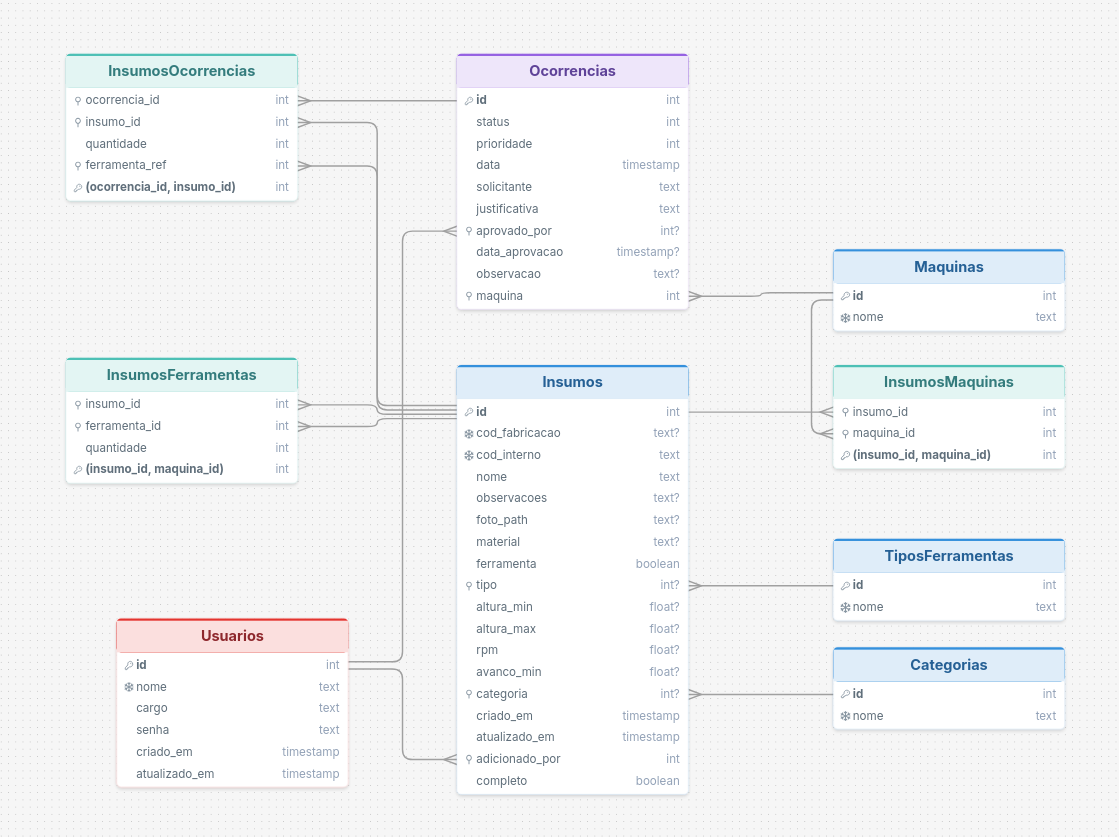
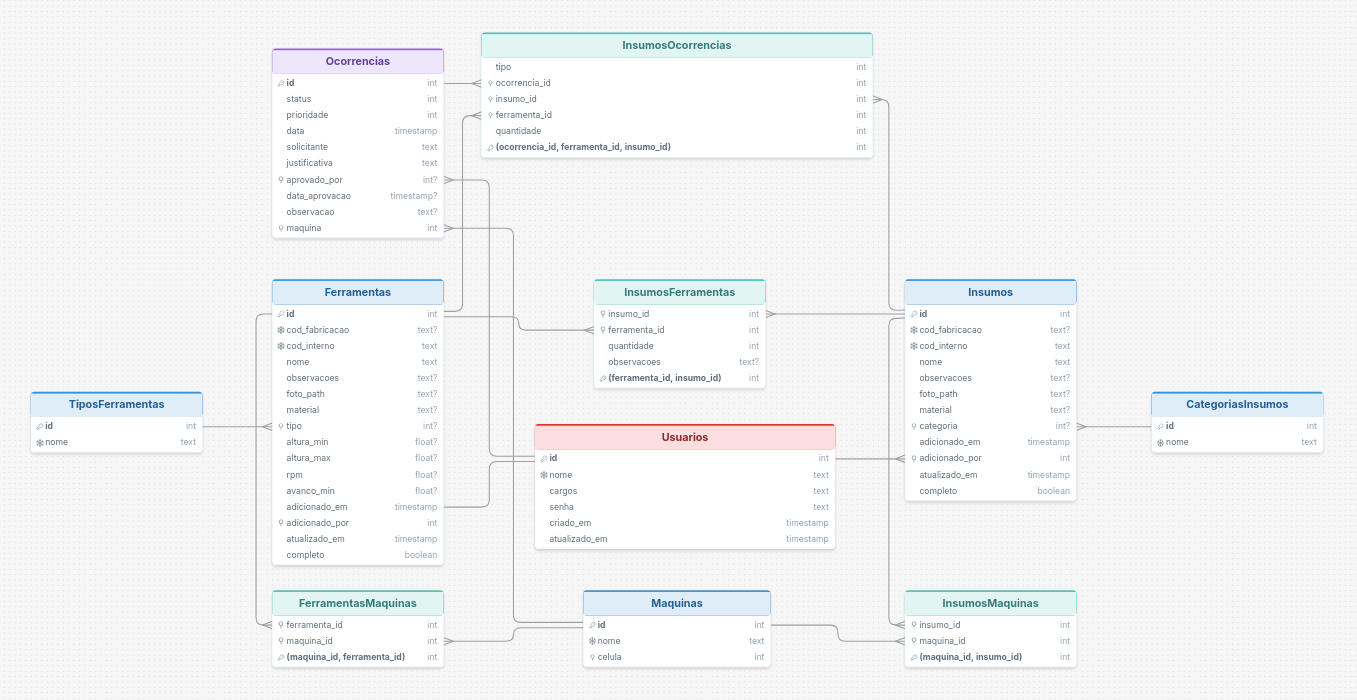
DB backup

diff --git a/src/routes/scan/+page.svelte b/src/routes/scan/+page.svelte
@@ -2,6 +2,7 @@
     import { onMount, onDestroy } from "svelte";
     import QrScanner from "qr-scanner";
     import InsumoCard from "$lib/components/insumo_card.svelte";
+    import Close from "~icons/fluent/add-24-regular";
 
     let qr_scanner: QrScanner;
     // @ts-ignore
@@ -34,13 +35,14 @@
     }
 
     let insumo: Insumo | undefined = $state();
+    let should_scan = $state(true);
 
     onMount(async () => {
         if (await QrScanner.hasCamera()) {
             has_camera = true;
             qr_scanner = new QrScanner(video_el, check_result, {
-                highlightScanRegion: true,
-                highlightCodeOutline: true,
+                highlightScanRegion: false,
+                highlightCodeOutline: false,
                 returnDetailedScanResult: true,
                 maxScansPerSecond: 5,
                 preferredCamera: "environment",
@@ -53,7 +55,7 @@
                 if (err instanceof Error) error = err.message;
             }
         } else {
-            error = `No camera detect!`;
+            error = `Nenhuma câmera disponível`;
         }
     });
 
@@ -65,7 +67,7 @@
     });
 
     const check_result = async (result: QrScanner.ScanResult) => {
-        if (insumo) return;
+        if (insumo || !should_scan) return;
 
         if (/^[A-Z]-[0-9]{3}$/.test(result.data.trim())) {
             const response = await fetch(`/api/insumo/${result.data.trim()}`);
@@ -80,34 +82,54 @@
             error = `Código inválido`;
         }
     };
+
+    function close_card() {
+        should_scan = false;
+        insumo = undefined;
+        setTimeout(() => {
+            should_scan = true;
+        }, 2000);
+    }
 </script>
 
 {#if !started && has_camera}
     <h1>Carregando...</h1>
 {/if}
 
-<video
-    bind:this={video_el}
-    class:hidden={!started}
-    autoplay
-    muted
-    playsinline
-    id="scanner-feed"
-    class="w-screen h-screen"
-></video>
-
-<canvas bind:this={prev_canvas} class="hidden w-screen h-screen"></canvas>
+<div class="">
+    <video
+        bind:this={video_el}
+        class:hidden={!started}
+        autoplay
+        muted
+        playsinline
+        id="scanner-feed"
+        onclick={() => (insumo ? close_card() : (should_scan = true))}
+        class="min-w-screen min-h-screen fixed bottom-0 right-0 top-0 left-0 object-cover"
+    ></video>
+</div>
 
 <p>{error}</p>
 
 {#if insumo}
-    <div class="absolute bottom-0 slide-up m-2">
+    <div class="absolute bottom-0 slide-up m-2 overflow-visible">
+        <div class="flex justify-center mb-5">
+            <button
+                type="button"
+                onclick={close_card}
+                class="p-2 rounded-full bg-neutral-primary-soft text-heading
+                border border-heading"
+            >
+                <Close class="rotate-45 w-10 h-10" />
+            </button>
+        </div>
         <InsumoCard
             ferramenta={insumo.ferramenta}
             foto={insumo.foto}
             cod={insumo.cod_interno}
             nome={insumo.nome}
             obs={insumo.observacoes}
+            class="shadow-xl shadow-heading/50"
         />
     </div>
 {/if}
@@ -116,6 +138,7 @@
     :global(body) {
         width: 100vw;
         height: 100vh;
+        overflow: hidden;
     }
 
     #scanner-feed {

diff --git a/src/lib/server/db/client.ts b/src/lib/server/db/client.ts
@@ -3,6 +3,8 @@ import { drizzle } from "drizzle-orm/better-sqlite3";
 import { DB_PATH } from "$env/static/private";
 import { building } from "$app/environment";
 import { dev } from "$app/environment";
+import path from "path";
+import fs from "fs/promises";
 
 let db: ReturnType<typeof drizzle>;
 
@@ -11,4 +13,47 @@ if (!building) {
   db = drizzle(sqlite);
 }
 
-export { db };
+const backup_database = async () => {
+  const date_str = new Date().toISOString().split("T")[0];
+  const backup_dir = `${path.dirname(DB_PATH)}/backups`;
+  const backup_path = `${backup_dir}/database-${date_str}.sqlite`;
+
+  try {
+    // Criar diretório se não existir.
+    await fs.mkdir(backup_dir, { recursive: true });
+    await db.$client.backup(backup_path);
+    console.log("DB Backup: Backup do banco salvo!");
+  } catch (err) {
+    console.error(
+      "DB Backup: Não foi possível realizar o backup do banco: ",
+      err,
+    );
+    return;
+  }
+
+  // Número de backups mantidos:
+  // Quando um novo backup é salvo, o mais antigo é deletado.
+  const n_backups = 5;
+
+  try {
+    const backup_files = await fs.readdir(backup_dir);
+
+    if (backup_files.length > n_backups) {
+      const backups_by_date = backup_files.sort((a, b) => a.localeCompare(b));
+      const n_extra_backups = backups_by_date.length - n_backups;
+
+      for (let i = 0; i < n_extra_backups; i++) {
+        await fs.unlink(`${backup_dir}/${backups_by_date[i]}`);
+        console.log(`DB Backup: backup antigo deletado: ${backups_by_date[i]}`);
+      }
+    }
+  } catch (err) {
+    console.error(
+      "DB Backup: Não foi possível deletar os backups antigos: ",
+      err,
+    );
+  }
+};
+
+// TODO: export singleton
+export { db, backup_database };

diff --git a/src/lib/components/insumo_card.svelte b/src/lib/components/insumo_card.svelte
@@ -1,18 +1,28 @@
 <script lang="ts">
+    import type { ClassValue } from "svelte/elements";
+
     interface Props {
         foto: string | null;
         nome: string;
         cod: string;
         ferramenta: boolean;
         obs: string | null;
+        class?: ClassValue;
     }
 
-    let { foto, nome, cod, ferramenta, obs }: Props = $props();
+    let {
+        foto,
+        nome,
+        cod,
+        ferramenta,
+        obs,
+        class: className = "",
+    }: Props = $props();
 </script>
 
 <a
     href={`insumos/${cod}`}
-    class="flex w-full items-start gap-3 bg-neutral-primary-soft p-6 border border-default rounded-base shadow-xs flex-row max-w-xl"
+    class={`flex w-full items-start gap-3 bg-neutral-primary-soft p-6 border border-default rounded-base shadow-xs flex-row max-w-xl ${className}`}
 >
     <img
         class="object-cover rounded-base h-auto w-28 md:w-48"

diff --git a/src/hooks.server.ts b/src/hooks.server.ts
@@ -1,0 +1,12 @@
+import cron from "node-cron";
+import { backup_database } from "$lib/server/db/client";
+
+// Backup automático do banco de dados:
+// Executa diariamente, à meia-noite.
+cron.schedule("0 0 * * *", async () => {
+  await backup_database();
+});
+
+// TODO: Add PM2.
+// TODO: Add Winston and Windon-daily-rotate-file
+// TODO: Deploy Docker container.

diff --git a/src/routes/api/insumo/[cod_interno]/+server.ts b/src/routes/api/insumo/[cod_interno]/+server.ts
@@ -7,9 +7,17 @@ export const GET: RequestHandler = async ({ params }) => {
     if (/^[A-Z]-[0-9]{3}$/.test(params.cod_interno)) {
       const insumo = await get_insumo_by_cod_interno(params.cod_interno);
       return json(insumo, {
-        status: insumo ? 200 : 404,
+        status: insumo && insumo.length > 0 ? 200 : 404,
+        headers: {
+          "Content-Type": "application/json",
+        },
       });
     }
   }
-  return json([], { status: 404 });
+  return json([], {
+    status: 404,
+    headers: {
+      "Content-Type": "application/json",
+    },
+  });
 };

diff --git a/ecosystem.config.ts b/ecosystem.config.ts
@@ -1,0 +1,1 @@
+export default [{}];